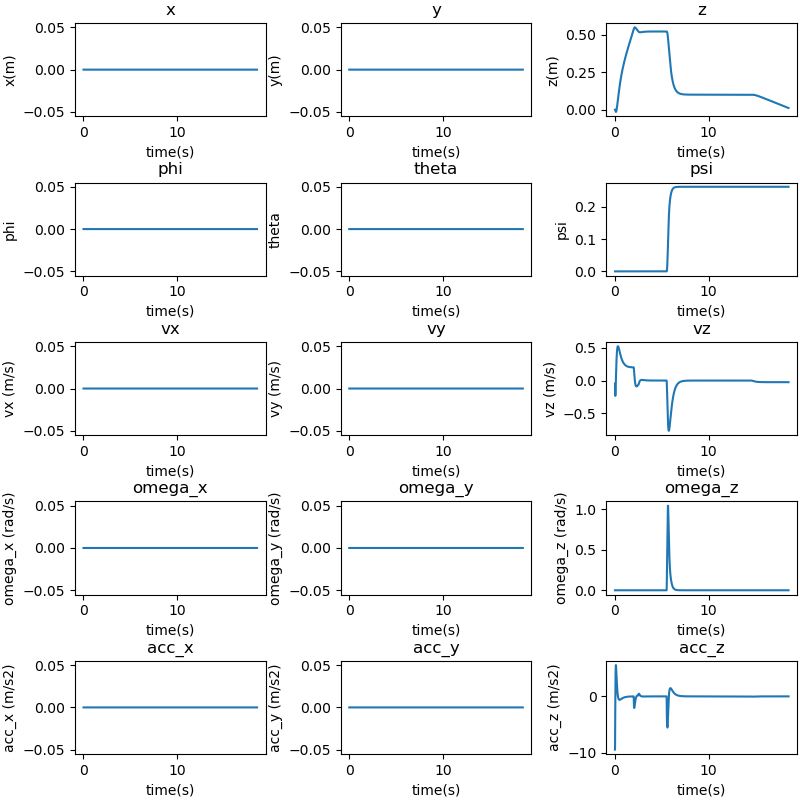
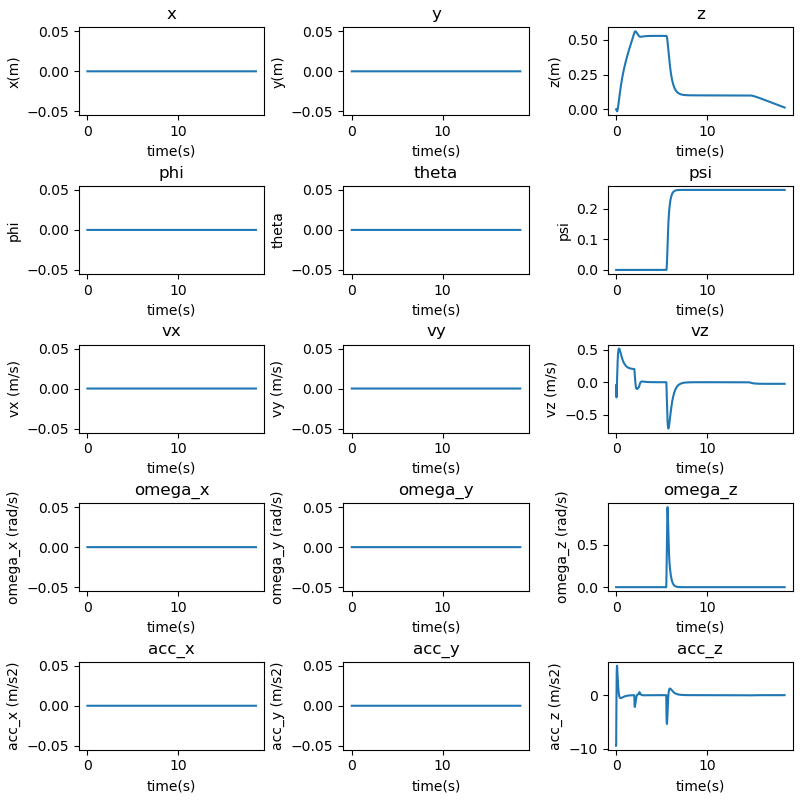
q5 complete

diff --git a/main_q.py b/main_q.py
@@ -116,7 +116,7 @@ def plot(plotDic, params):
     plt.title("Thrust to Weight ratio")
     plt.xlabel("Time (s)")
     plt.ylabel("Amplitude")
-    plt.savefig(f'outputs/{params["question"]}/fbyw.png')
+    plt.savefig(f'outputs/{params["question"]}/{params["plotprefix"]}_fbyw.png')
 
     plot_state_error(plotDic["actual_states"],plotDic["desired_states"],plotDic["time_vec"], params)
     plot_state_error(plotDic["trackingintervals"]['actualstates'],plotDic["trackingintervals"]['desiredstates'],plotDic['trackingintervals']["times"], params, isTrack = True)
@@ -156,10 +156,10 @@ if __name__ == '__main__':
         "rpm_max": 20000, 
         "inertia": np.diag([0.0033,0.0033,0.005]), 
         "COM_vertical_offset": 0.05,            
-        'kpatt': [190, 198, 80], 
-        'kdatt' : [30,30,17.88], 
-        'kppos':[17, 17, 20], 
-        'kdpos': [6.6, 6.6, 9], 
+        'kpatt': [190, 190, 70], 
+        'kdatt' : [30,30, 18], 
+        'kppos':[20, 20, 18], 
+        'kdpos': [8, 8, 9], 
         'question' : question,
         'q5trackpsi' : 0,
         'dt' : 0.005,
@@ -168,9 +168,23 @@ if __name__ == '__main__':
     import json
     with open(f'outputs/{question}/params.json', 'w') as f:
         json.dump(params, f,indent=4,  cls=NumpyEncoder)
-    # main(params)    
 
-    params['q5trackpsi'] = 15 * np.pi / 180
-    params['plotprefix'] = 'b'
-    main(params)
-    
+    main(params)   
+
+    if question == 5:
+        
+
+        params['q5trackpsi'] = 15 * np.pi / 180
+        params['plotprefix'] = 'b'
+        main(params)
+
+        params['q5trackpsi'] = 0
+        params['plotprefix'] = 'gains2'
+        params['kpatt'] = [190, 190, 20]
+        params['kdatt'] = [30, 30, 18]
+
+        params['kppos'] = [20, 20, 10]
+        params['kdpos'] = [8, 8, 19]
+        
+        main(params)
+        

diff --git a/plot.py b/plot.py
@@ -82,7 +82,7 @@ def plot_state_error(state,state_des,time_vector, params, isTrack = False):
 	axs[4,2].set_title("Error in acc_z")
 	axs[4,2].set(xlabel = 'time(s)', ylabel = 'acc_z (m/s2)')
 
-	fig.tight_layout(pad = 0.2)
+	fig.tight_layout(pad = 0.5)
 	name = 'stateErrors'
 	if isTrack:
 		name = 'stateErrors_trackPlot'
@@ -150,7 +150,7 @@ def plot_state_error(state,state_des,time_vector, params, isTrack = False):
 	axs1[4,2].set_title("acc_z")
 	axs1[4,2].set(xlabel = 'time(s)', ylabel = 'acc_z (m/s2)')
 
-	fig1.tight_layout(pad=0.2)
+	fig1.tight_layout(pad=0.5)
 
 	name = 'states'
 	if isTrack:
@@ -244,7 +244,7 @@ def plotq5(plotDic, params):
 	print("[Vz] Steady State values = ", states[-1, 2])
 
 	axs[0,1].axvline(x=settlingtimestampend, color='r', linestyle = '--')
-	axs[0,1].axvline(x=settlingtimestampstart, color='g', linestyle = '--')
+	axs[0,1].axvline(x=settlingtimestampstart, color='k', linestyle = '--')
 	axs[0,1].axvline(x=settlingtimestampend, color='r', linestyle = '--')
 	axs[0,1].axvline(x=risetimestart, color='g', linestyle = '--')
 
